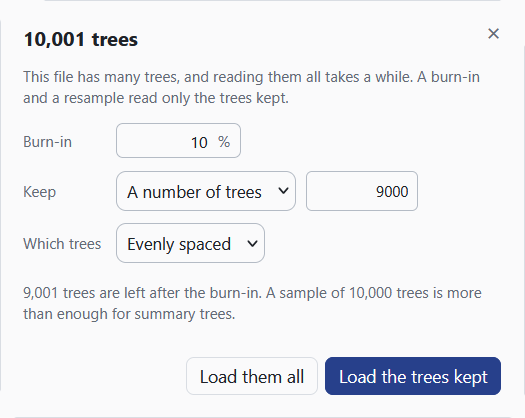
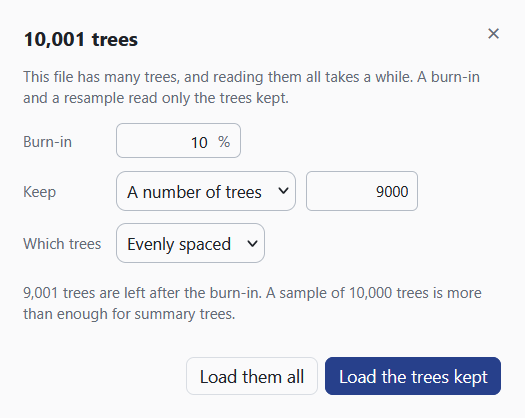
Files updated

Changed region(s): [[0.0305, 0.9952, 0.9752, 1.0]]

diff --git a/content/vignettes/en/01-basic-editing.md b/content/vignettes/en/01-basic-editing.md
@@ -8,7 +8,7 @@ As an example, we use a simulated dataset that includes everything needed to sho
 
 ## 1. The files we need
 
-Phylogenetic trees and networks come from many different programs and methods, and in many flavors. For this tutorial, we prepared a set of ready-to-use files, grouped in folders that follow the sections of the left panel of tree2go. They cover many of the file types and formats you may come across in phylogenetic analyses, so they can also serve as a reference later, when you import your own data. The files can be downloaded from [this link](#), and are as follows:
+Phylogenetic trees and networks come from many different programs and methods, and in many flavors. For this tutorial, we prepared a set of ready-to-use files, grouped in folders that follow the sections of the left panel of tree2go. They cover many of the file types and formats you may come across in phylogenetic analyses, so they can also serve as a reference later, when you import your own data. The files can be downloaded from [this link](https://github.com/VR-Daniel/tree2go/tree/main/content/examples), and are as follows:
 
 ```text
 vertebrates/
@@ -373,7 +373,7 @@ Although it is not part of our vertebrate example, one section is left to explor
 
 As an example, we use `heliconius_network.nwk`, a small network of *Heliconius* butterflies inspired by two well-known cases, with fictitious values: *H. heurippa*, a species of hybrid origin between *H. cydno* and *H. melpomene*, and *H. timareta*, which received genes from *H. melpomene* by introgression. It opens with `Open tree`, like any tree.
 
-tree2go recognizes the reticulations, and the kind of each one, from its label in the file: `#H` for hybridization, `#LGT` for lateral gene transfer and `#R` for recombination, each with its own color in **Phylogenetic networks**. Both events of our example are hybridizations (`#H`). What tells a hybrid species from an introgression is gamma (γ), the share of the genome inherited through each parent, parameter that can be ploted as any ot the previous tree associated labels.
+tree2go recognizes the reticulations, and the kind of each one, from its label in the file: `#H` for hybridization, `#LGT` for lateral gene transfer and `#R` for recombination, each with its own color in **Phylogenetic networks**. Both events of our example are hybridizations (`#H`). What tells a hybrid species from an introgression is gamma (γ), the share of the genome inherited through each parent, a value that can be shown like any other annotation of the tree.
 
 <figure class="vfig pair">
   <div class="vrow">
